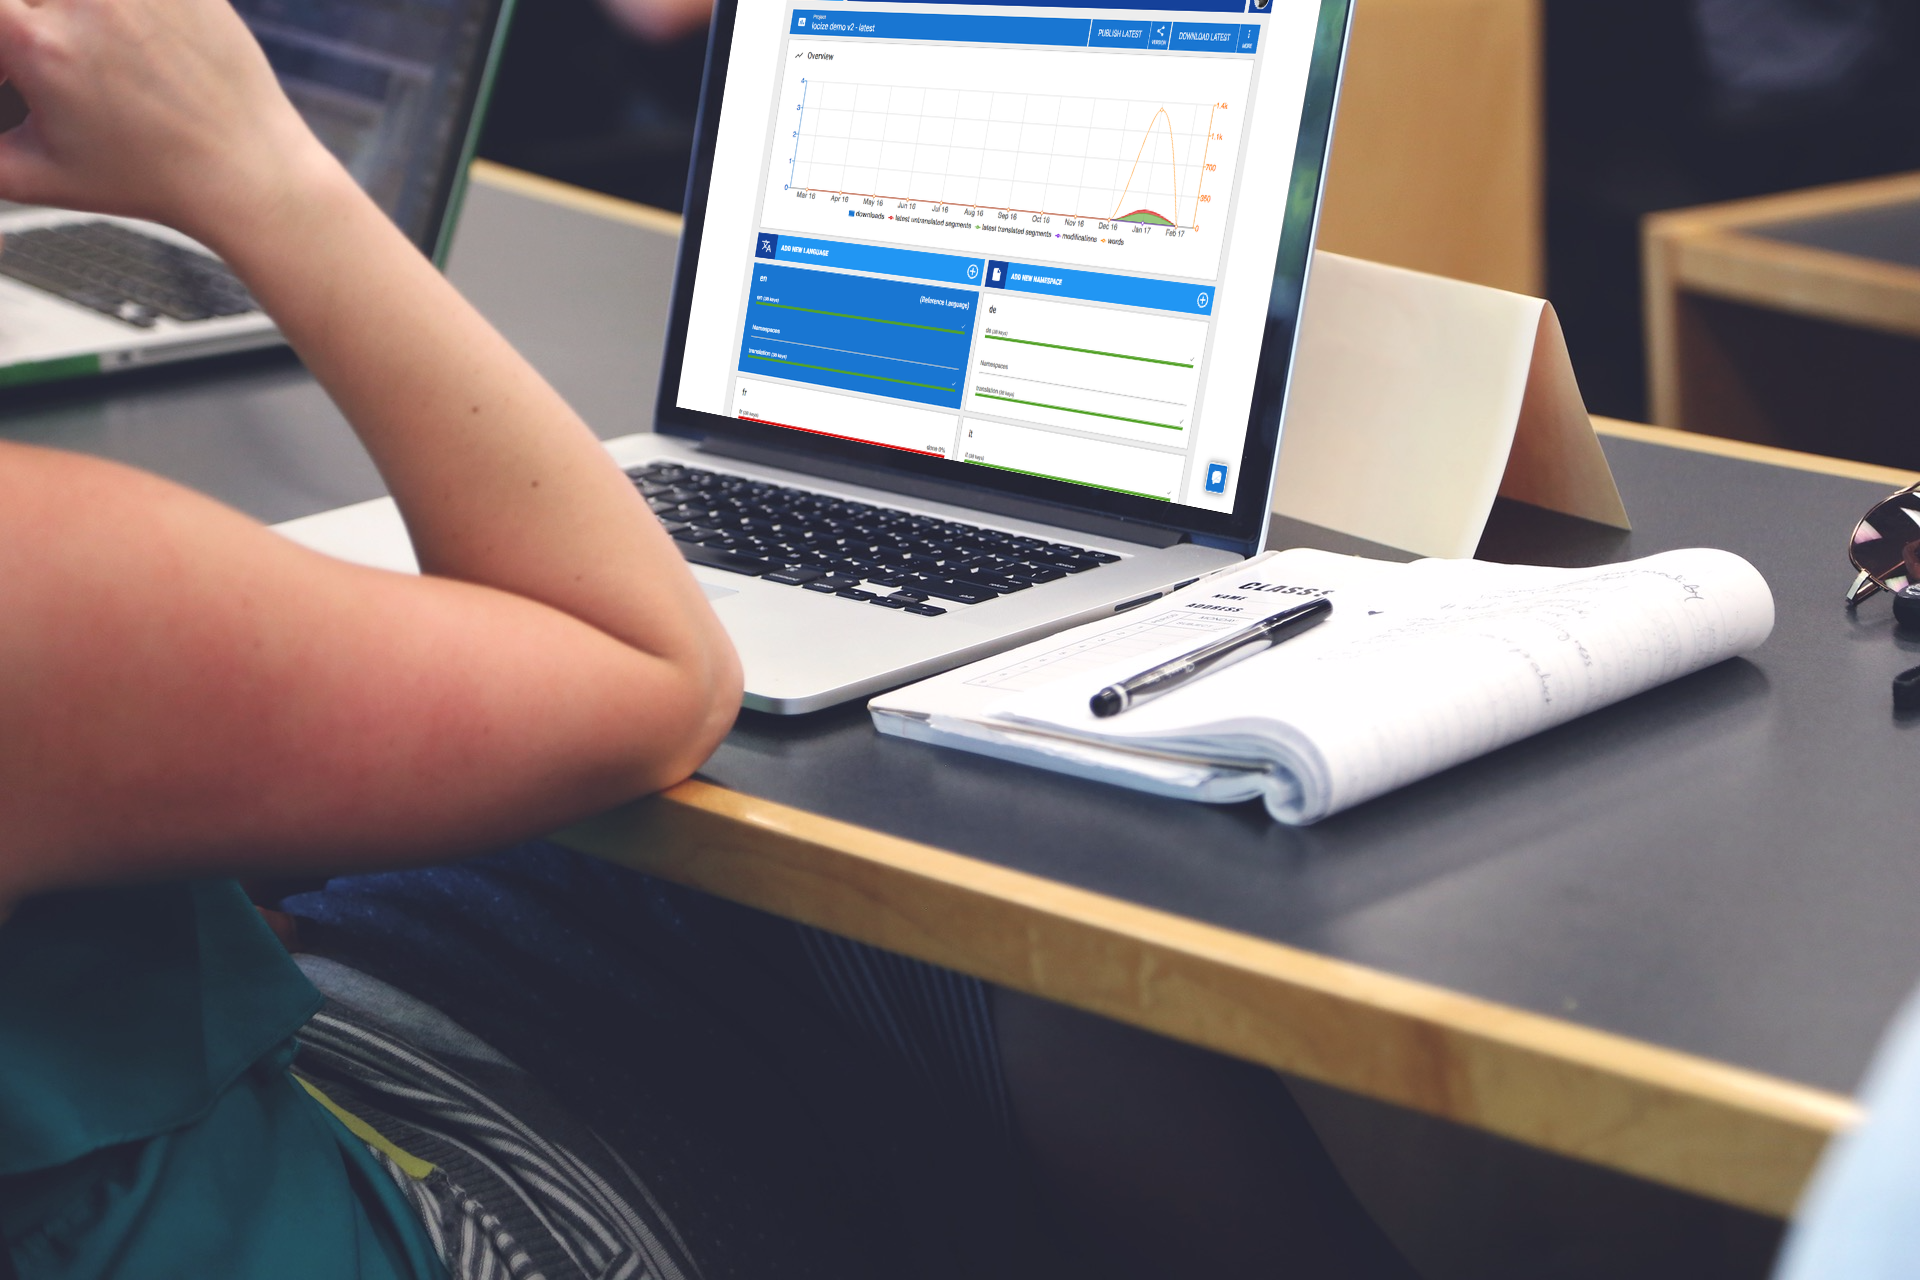
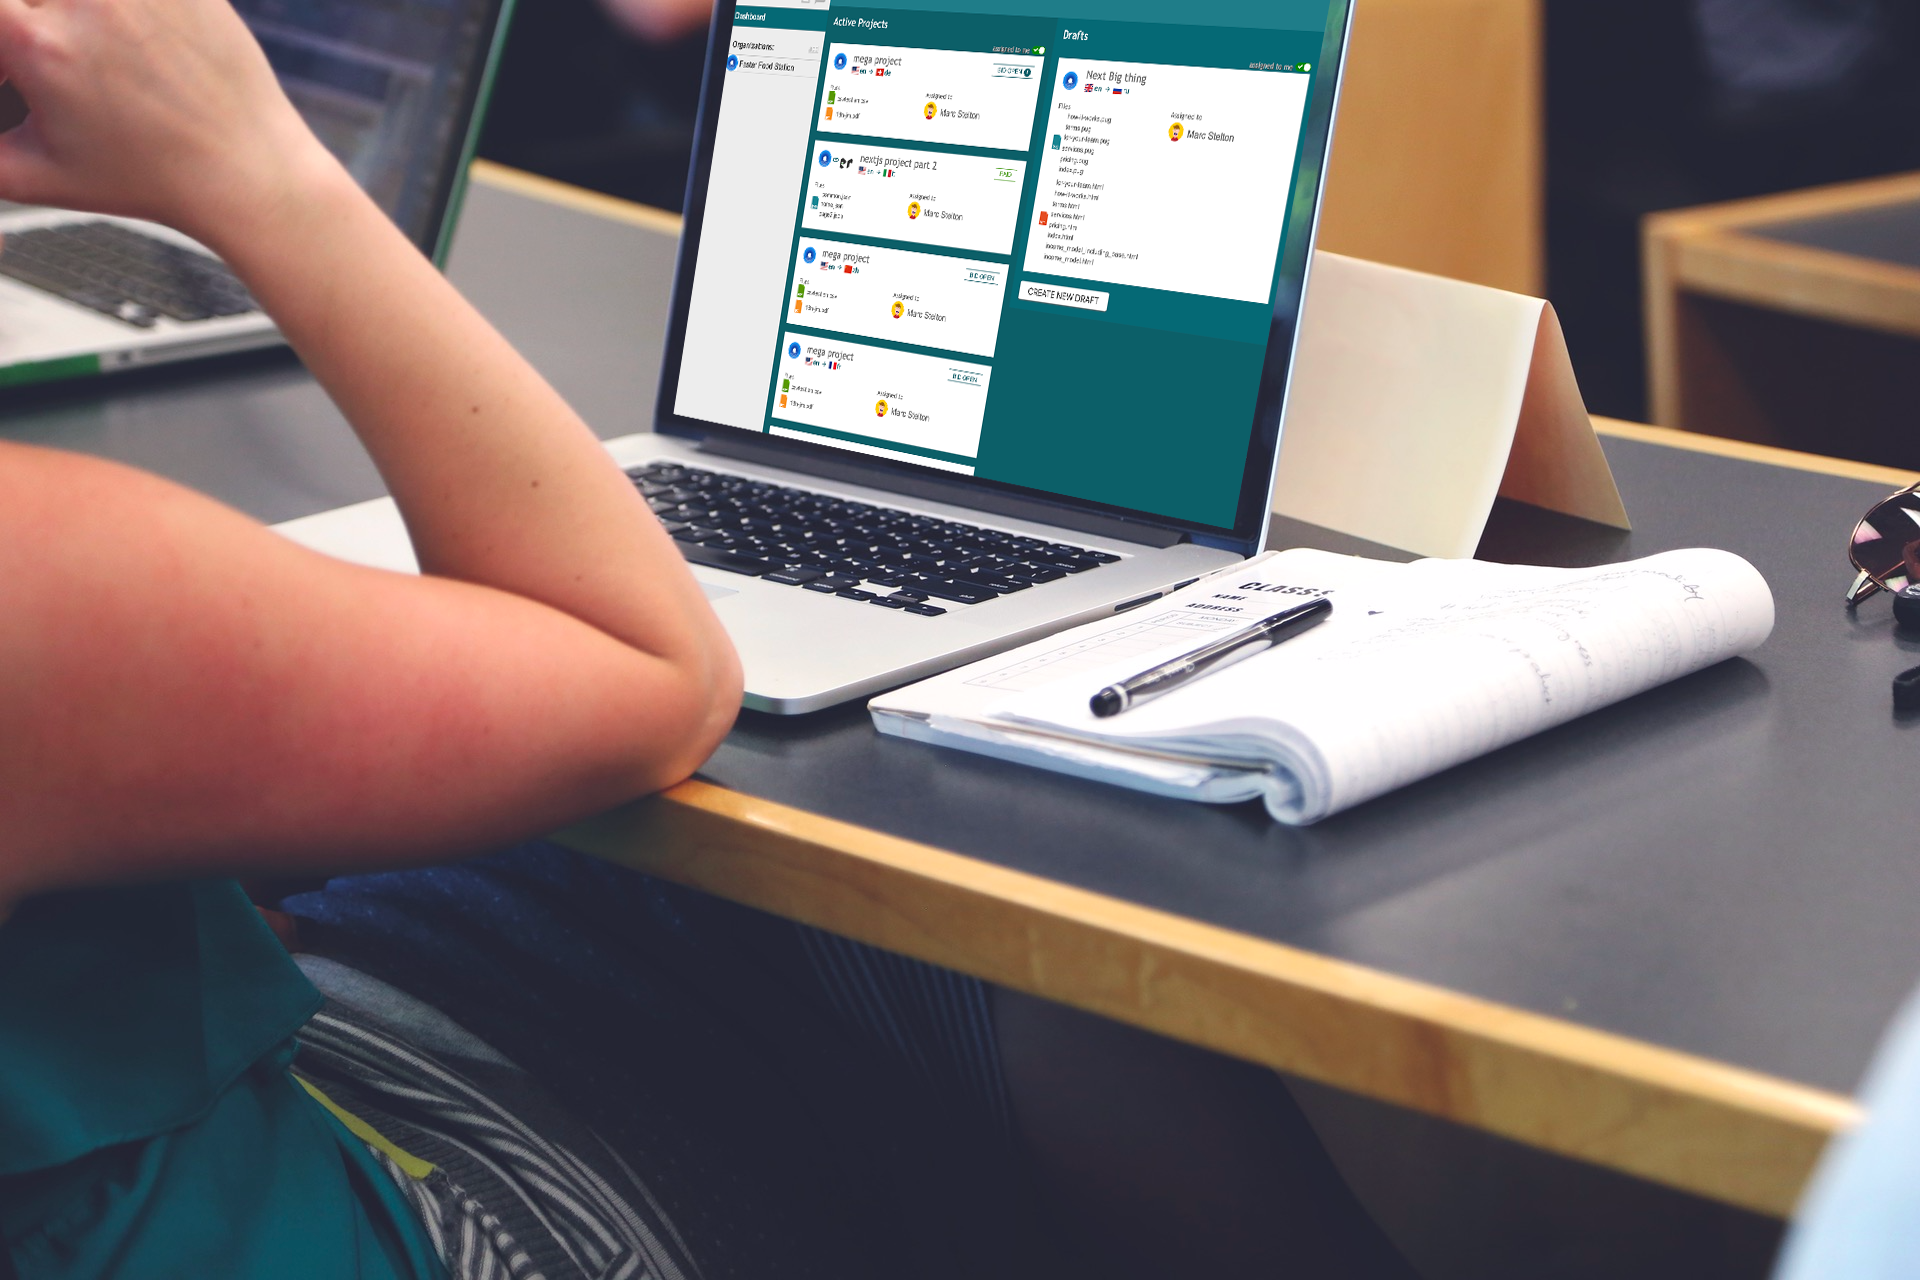
some first screenshots

Changed region(s): [[0.3438, 0.0, 0.7188, 0.4062], [0.125, 0.9688, 0.1875, 1.0]]

diff --git a/index.html b/index.html
@@ -164,7 +164,7 @@
                     <div class="device-container">
                       <div class="device-mockup macbook_2015 silver">
                         <div class="device">
-                          <div class="screen"><img class="img-responsive" src="img/screenshots/screen/integrate_s.jpg" alt="locize integration"></div>
+                          <div class="screen"><img class="img-responsive" src="img/screenshots/screen/project_consumer.png" alt="localistars project"></div>
                           <div class="button"></div>
                         </div>
                       </div>
@@ -178,7 +178,7 @@
                     <div class="device-container">
                       <div class="device-mockup macbook_2015 silver">
                         <div class="device">
-                          <div class="screen"><img class="img-responsive" src="img/screenshots/screen/stats_s.jpg" alt="locize statistics"></div>
+                          <div class="screen"><img class="img-responsive" src="img/screenshots/screen/partners.png" alt="localistars partners"></div>
                         </div>
                       </div>
                     </div>
@@ -193,7 +193,7 @@
                     <div class="device-container">
                       <div class="device-mockup macbook_2015 silver">
                         <div class="device">
-                          <div class="screen"><img class="img-responsive" src="img/screenshots/screen/incontext_editor_s.jpg" alt="locize in-context editor"></div>
+                          <div class="screen"><img class="img-responsive" src="img/screenshots/screen/accounting.png" alt="localistars accounting"></div>
                         </div>
                       </div>
                     </div>
@@ -206,7 +206,7 @@
                     <div class="device-container">
                       <div class="device-mockup macbook_2015 silver">
                         <div class="device">
-                          <div class="screen"><img class="img-responsive" src="img/screenshots/screen/editor_s.jpg" alt="locize translation editor"></div>
+                          <div class="screen"><img class="img-responsive" src="img/screenshots/screen/permissions.png" alt="localistars role management"></div>
                         </div>
                       </div>
                     </div>
